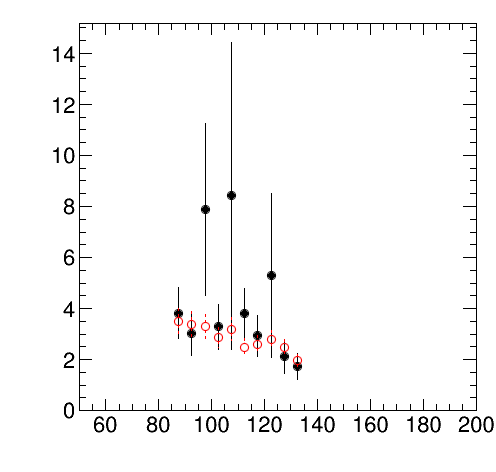
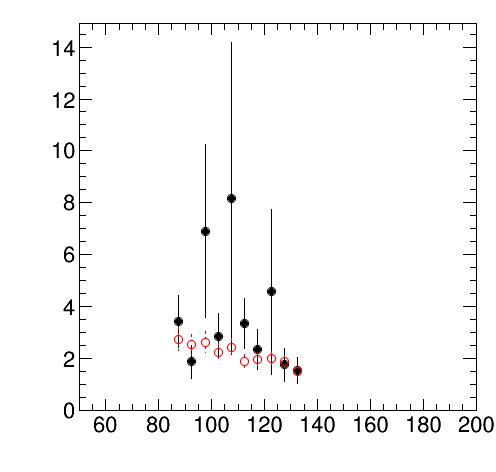
fixing commit issue

diff --git a/src/ALPHABET.h b/src/ALPHABET.h
@@ -2,6 +2,6 @@ namespace alphabet{
 
 const int numMETbins=3;
 const int lowestMET=300.;
-const int binWidth=200.;
+const int binWidth=100.;
 
 }
